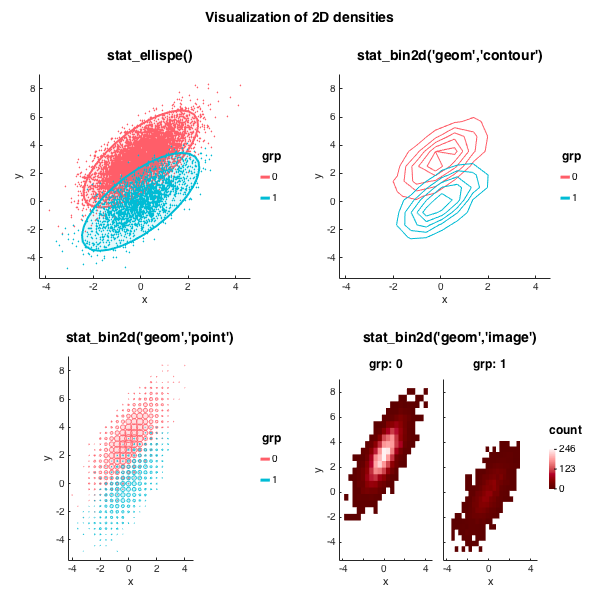
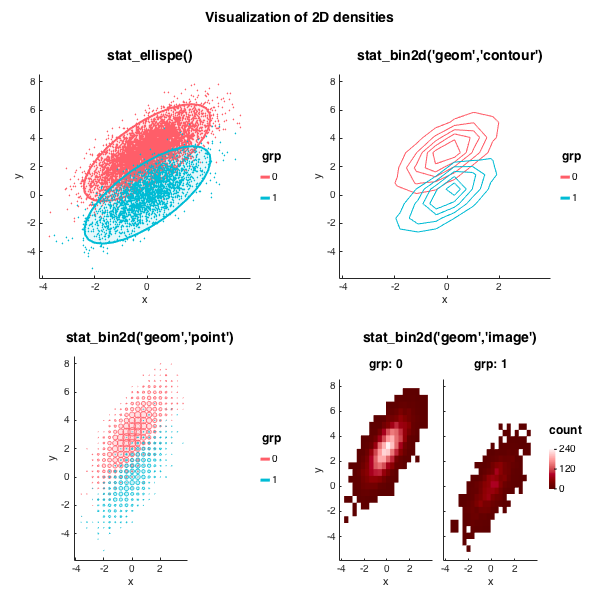
Corrected bug with continuous color legends

diff --git a/gramm.m b/gramm.m
@@ -1518,7 +1518,7 @@ classdef gramm < handle
                         text(2.5,ind_scale,num2str(max(max(obj.plot_lim.maxc))))];
                     
                     obj.legend_text_handles=[obj.legend_text_handles...
-                        text(2.5,ind_scale-ind_scale_step,num2str((max(max(obj.plot_lim.maxc))-min(min(obj.plot_lim.minc)))/2))];
+                        text(2.5,ind_scale-ind_scale_step,num2str((max(max(obj.plot_lim.maxc))+min(min(obj.plot_lim.minc)))/2))];
                     
                     obj.legend_text_handles=[obj.legend_text_handles...
                         text(2.5,ind_scale-ind_scale_step*2,num2str(min(min(obj.plot_lim.minc))))];
